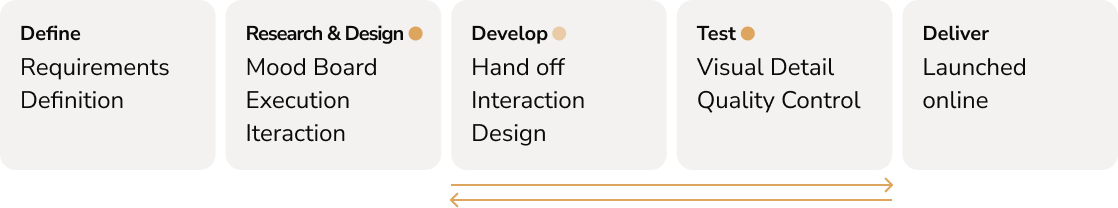
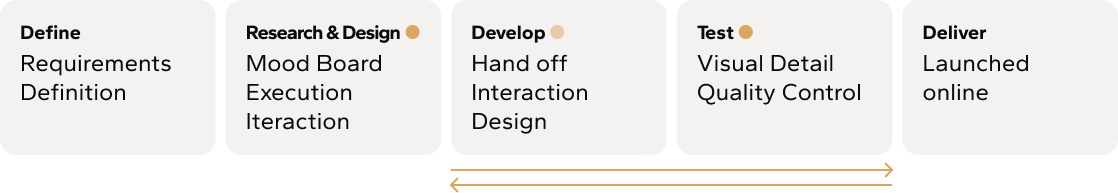
update

diff --git a/projects/fast-sign.html b/projects/fast-sign.html
@@ -153,10 +153,10 @@
             <div class="section-title">project process</div>
           </div>
           <div class="paragraph">
-            <div class="process-note">Steps I involved in</div>
-          </div>
-          <div class="paragraph">
-            <img src="/img/project/1999/Pendding/project-process.png" alt="" />
+            <img
+              src="/img/project/fast-sign/approach/project-process.png"
+              alt=""
+            />
           </div>
         </div>
       </div>
@@ -247,7 +247,7 @@
             </div>
           </div>
           <div class="paragraph">
-            <div class="sub-title">Wireframe by Me</div>
+            <div class="sub-title">Wireframe Re-build</div>
             <img
               src="/img/project/fast-sign/approach/wireframe-coral.png"
               alt=""
@@ -266,27 +266,56 @@
               alt=""
             />
           </div>
-          <div class="paragraph">
+          <div class="paragraph result">
             <div class="sub-title">Result</div>
-            <div>
-              Lorem ipsum dolor sit, amet consectetur adipisicing elit. Ipsa
-              commodi reprehenderit illum tempore delectus dolorum velit maxime
-              vel eveniet quibusdam necessitatibus quam est repellendus,
-              accusamus in quasi aperiam harum facere?
+            <div class="appreciation">
+              <div class="title">
+                <i class="ph-fill ph-hands-praying"></i>Appreciation
+              </div>
+              <div class="note">
+                Thanks to these engineers for implementing my design files in
+                development; I appreciate all your hard work! Your feedbacks
+                helped me for improvement, and I see there’s still much for
+                growth.
+              </div>
+              <div class="container list">
+                <div class="row">
+                  <div class="col-md">
+                    威爾<a href="">Work Link</a
+                    ><a href="">Personal Page Link</a>
+                  </div>
+                  <div class="col-md">
+                    int<a href="">Work Link</a><a href="">Personal Page Link</a>
+                  </div>
+                  <div class="col-md">
+                    Erin Huang<a href="">Work Link</a
+                    ><a href="">Personal Page Link</a>
+                  </div>
+                  <div class="col-md">
+                    <div class="award-dev">
+                      <i class="ph-fill ph-medal"></i>Howard
+                      <div class="award-note">Winner of F2E</div>
+                    </div>
+                    <a href="">Work Link</a><a href="">Personal Page Link</a>
+                  </div>
+                  <div class="col-md">
+                    Joe Chang<a href="">Work Link</a
+                    ><a href="">Personal Page Link</a>
+                  </div>
+                </div>
+              </div>
             </div>
-            <iframe
-              style="border: 1px solid rgba(0, 0, 0, 0.1)"
-              width="100%"
-              height="450"
-              src="https://embed.figma.com/proto/y8bZktfzGv8TDbQ9BZKSwi/week2_e-Signature?page-id=302%3A16279&node-id=5421-27429&node-type=frame&viewport=1932%2C1034%2C0.21&scaling=scale-down&content-scaling=fixed&embed-host=share"
-              allowfullscreen
-            ></iframe>
-
-            <div>
-              <img
-                src="/img/project/fast-sign/2022TheF2E-W2-Coral.png"
-                alt=""
-              />
+            <div class="award">
+              <div class="title"><i class="ph-fill ph-medal"></i>Award</div>
+              <div class="note">
+                謝謝評審的青睞，這週的主題得到了佳作的殊榮。
+              </div>
+              <div>
+                <img
+                  src="/img/project/fast-sign/2022TheF2E-W2-Coral.png"
+                  alt=""
+                />
+              </div>
             </div>
           </div>
         </div>

diff --git a/css/sub-css/project-page/page-fast-sign.css b/css/sub-css/project-page/page-fast-sign.css
@@ -37,6 +37,37 @@ body.page-fast-sign .work-container .section.approach .paragraph.scenario-person
 body.page-fast-sign .work-container .section.approach .paragraph.scenario-persona .persona .problem i {
   color: #dc3545;
 }
+body.page-fast-sign .work-container .section.approach .paragraph.result .appreciation .list .row .col-md,
+body.page-fast-sign .work-container .section.approach .paragraph.result .award .list .row .col-md {
+  background-color: rgba(0, 0, 0, 0.031372549);
+  margin-bottom: 0.5rem;
+}
+body.page-fast-sign .work-container .section.approach .paragraph.result .appreciation .list .row .col-md a,
+body.page-fast-sign .work-container .section.approach .paragraph.result .award .list .row .col-md a {
+  color: #0b7d77;
+}
+body.page-fast-sign .work-container .section.approach .paragraph.result .appreciation .list .row .col-md .award-dev,
+body.page-fast-sign .work-container .section.approach .paragraph.result .award .list .row .col-md .award-dev {
+  position: relative;
+}
+body.page-fast-sign .work-container .section.approach .paragraph.result .appreciation .list .row .col-md .award-dev .award-note,
+body.page-fast-sign .work-container .section.approach .paragraph.result .award .list .row .col-md .award-dev .award-note {
+  position: absolute;
+  top: -1rem;
+  left: 0;
+  font-size: 0.6rem;
+  opacity: 0;
+  transition: 0.5s;
+}
+body.page-fast-sign .work-container .section.approach .paragraph.result .appreciation .list .row .col-md .award-dev:hover,
+body.page-fast-sign .work-container .section.approach .paragraph.result .award .list .row .col-md .award-dev:hover {
+  color: #0b7d77;
+  transition: 0.5s;
+}
+body.page-fast-sign .work-container .section.approach .paragraph.result .appreciation .list .row .col-md .award-dev:hover .award-note,
+body.page-fast-sign .work-container .section.approach .paragraph.result .award .list .row .col-md .award-dev:hover .award-note {
+  opacity: 1;
+}
 body.page-fast-sign .work-container .section.reflection {
   background-color: #fafafa;
 }

diff --git a/css/sub-css/project-page/project-page.css b/css/sub-css/project-page/project-page.css
@@ -171,6 +171,34 @@ body.project .work-container .section.approach .paragraph.scenario-persona .pers
 body.project .work-container .section.approach .paragraph.scenario-persona .persona .problem i {
   color: red;
 }
+body.project .work-container .section.approach .paragraph.result .appreciation .title,
+body.project .work-container .section.approach .paragraph.result .award .title {
+  text-transform: uppercase;
+  margin: 1rem 0;
+}
+body.project .work-container .section.approach .paragraph.result .appreciation .list .row,
+body.project .work-container .section.approach .paragraph.result .award .list .row {
+  gap: 0.5rem;
+}
+body.project .work-container .section.approach .paragraph.result .appreciation .list .row .col-md,
+body.project .work-container .section.approach .paragraph.result .award .list .row .col-md {
+  text-align: center;
+  border-radius: 1rem;
+  padding: 1rem;
+}
+body.project .work-container .section.approach .paragraph.result .appreciation .list .row .col-md a,
+body.project .work-container .section.approach .paragraph.result .award .list .row .col-md a {
+  font-size: 0.8rem;
+  display: block;
+  text-decoration: none;
+  color: inherit;
+  transition: 0.5s;
+}
+body.project .work-container .section.approach .paragraph.result .appreciation .list .row .col-md a:hover,
+body.project .work-container .section.approach .paragraph.result .award .list .row .col-md a:hover {
+  text-decoration: underline;
+  transition: 0.5s;
+}
 body.project .work-container .section a.external-link {
   color: #fff;
   text-decoration: none;

diff --git a/css/sub-css/project-page/page-fast-sign.scss b/css/sub-css/project-page/page-fast-sign.scss
@@ -54,6 +54,42 @@ body.page-fast-sign {
               }
             }
           }
+          &.result {
+            .appreciation,
+            .award {
+              .title {
+              }
+              .list {
+                .row {
+                  .col-md {
+                    background-color: #00000008;
+                    margin-bottom: 0.5rem;
+                    a {
+                      color: $main;
+                    }
+                    .award-dev {
+                      position: relative;
+                      .award-note {
+                        position: absolute;
+                        top: -1rem;
+                        left: 0;
+                        font-size: 0.6rem;
+                        opacity: 0;
+                        transition: 0.5s;
+                      }
+                      &:hover {
+                        color: #0b7d77;
+                        transition: 0.5s;
+                        .award-note {
+                          opacity: 1;
+                        }
+                      }
+                    }
+                  }
+                }
+              }
+            }
+          }
         }
       }
       &.reflection {

diff --git a/css/sub-css/project-page/project-page.scss b/css/sub-css/project-page/project-page.scss
@@ -207,6 +207,36 @@ body.project {
               }
             }
           }
+          &.result {
+            .appreciation,
+            .award {
+              .title {
+                text-transform: uppercase;
+                margin: 1rem 0;
+              }
+              .list {
+                .row {
+                  gap: 0.5rem;
+                  .col-md {
+                    text-align: center;
+                    border-radius: 1rem;
+                    padding: 1rem;
+                    a {
+                      font-size: 0.8rem;
+                      display: block;
+                      text-decoration: none;
+                      color: inherit;
+                      transition: 0.5s;
+                      &:hover {
+                        text-decoration: underline;
+                        transition: 0.5s;
+                      }
+                    }
+                  }
+                }
+              }
+            }
+          }
         }
       }
       &.reflection {

diff --git a/projects/classic-movie.html b/projects/classic-movie.html
@@ -211,7 +211,7 @@
                 alt=""
               />
             </div>
-            <div class="row">
+            <!-- <div class="row">
               <div class="col-md-8">
                 Lorem, ipsum dolor sit amet consectetur adipisicing elit. Illum
                 facere magni possimus eaque ad nobis sunt expedita atque, error
@@ -224,8 +224,8 @@
                   alt=""
                 />
               </div>
-            </div>
-            <div class="row">
+            </div> -->
+            <!-- <div class="row">
               <div class="col-md-4">
                 <img
                   src="/img/project/classic-movie/approach/key-visual-02.png"
@@ -238,7 +238,7 @@
                 corporis minima libero ab aspernatur nesciunt fugiat, vel,
                 aliquid placeat. Totam.
               </div>
-            </div>
+            </div> -->
             <div class="achievement">
               <div class="title">
                 <i class="ph-fill ph-hands-clapping"></i>

diff --git a/projects/scrum-game.html b/projects/scrum-game.html
@@ -140,7 +140,10 @@
             <div class="process-note">Steps I involved in</div>
           </div>
           <div class="paragraph">
-            <img src="/img/project/1999/Pendding/project-process.png" alt="" />
+            <img
+              src="/img/project/scrum-game/approach/project-process.png"
+              alt=""
+            />
           </div>
         </div>
       </div>
